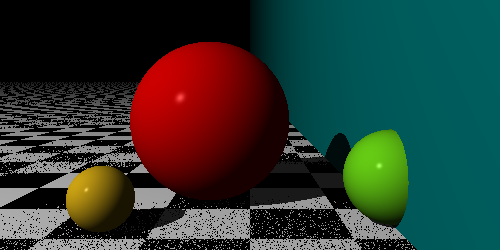
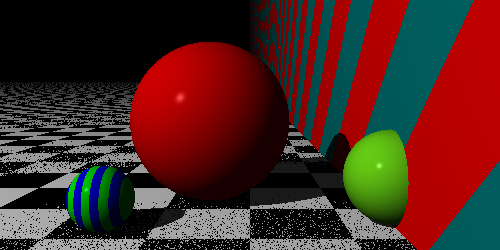
Added verification of stripe pattern on sphere and plane

Changed region(s): [[0.78, 0.0, 1.0, 1.0], [0.48, 0.0, 0.84, 0.7], [0.12, 0.644, 0.27, 0.952]]

diff --git a/RayTracer.Scratchpad/09_Patterns/PatternExample.cs b/RayTracer.Scratchpad/09_Patterns/PatternExample.cs
@@ -43,7 +43,10 @@ namespace RayTracer.Scratchpad._09_Patterns
                 
                 Material = new Material
                 {
-                    Color = new Color(0, 0.5, 0.5),
+                    Pattern = new StripePattern(new Color(0, 0.5, 0.5), new Color(1, 0, 0))
+                    {
+                        TransformMatrix = Matrix4X4.CreateRotationY(Math.PI / 4)
+                    },
                     Specular = 0,
                 }
             };
@@ -74,7 +77,10 @@ namespace RayTracer.Scratchpad._09_Patterns
             {
                 Material = new Material
                 {
-                    Color = new Color(1, 0.8, 0.1),
+                    Pattern = new StripePattern(new Color(0, 0, 1), new Color(0, 1, 0))
+                    {
+                        TransformMatrix = Matrix4X4.CreateScale(0.25, 0.25, 0.25)
+                    },
                     Diffuse = 0.7,
                     Specular = 0.3,
                 }
